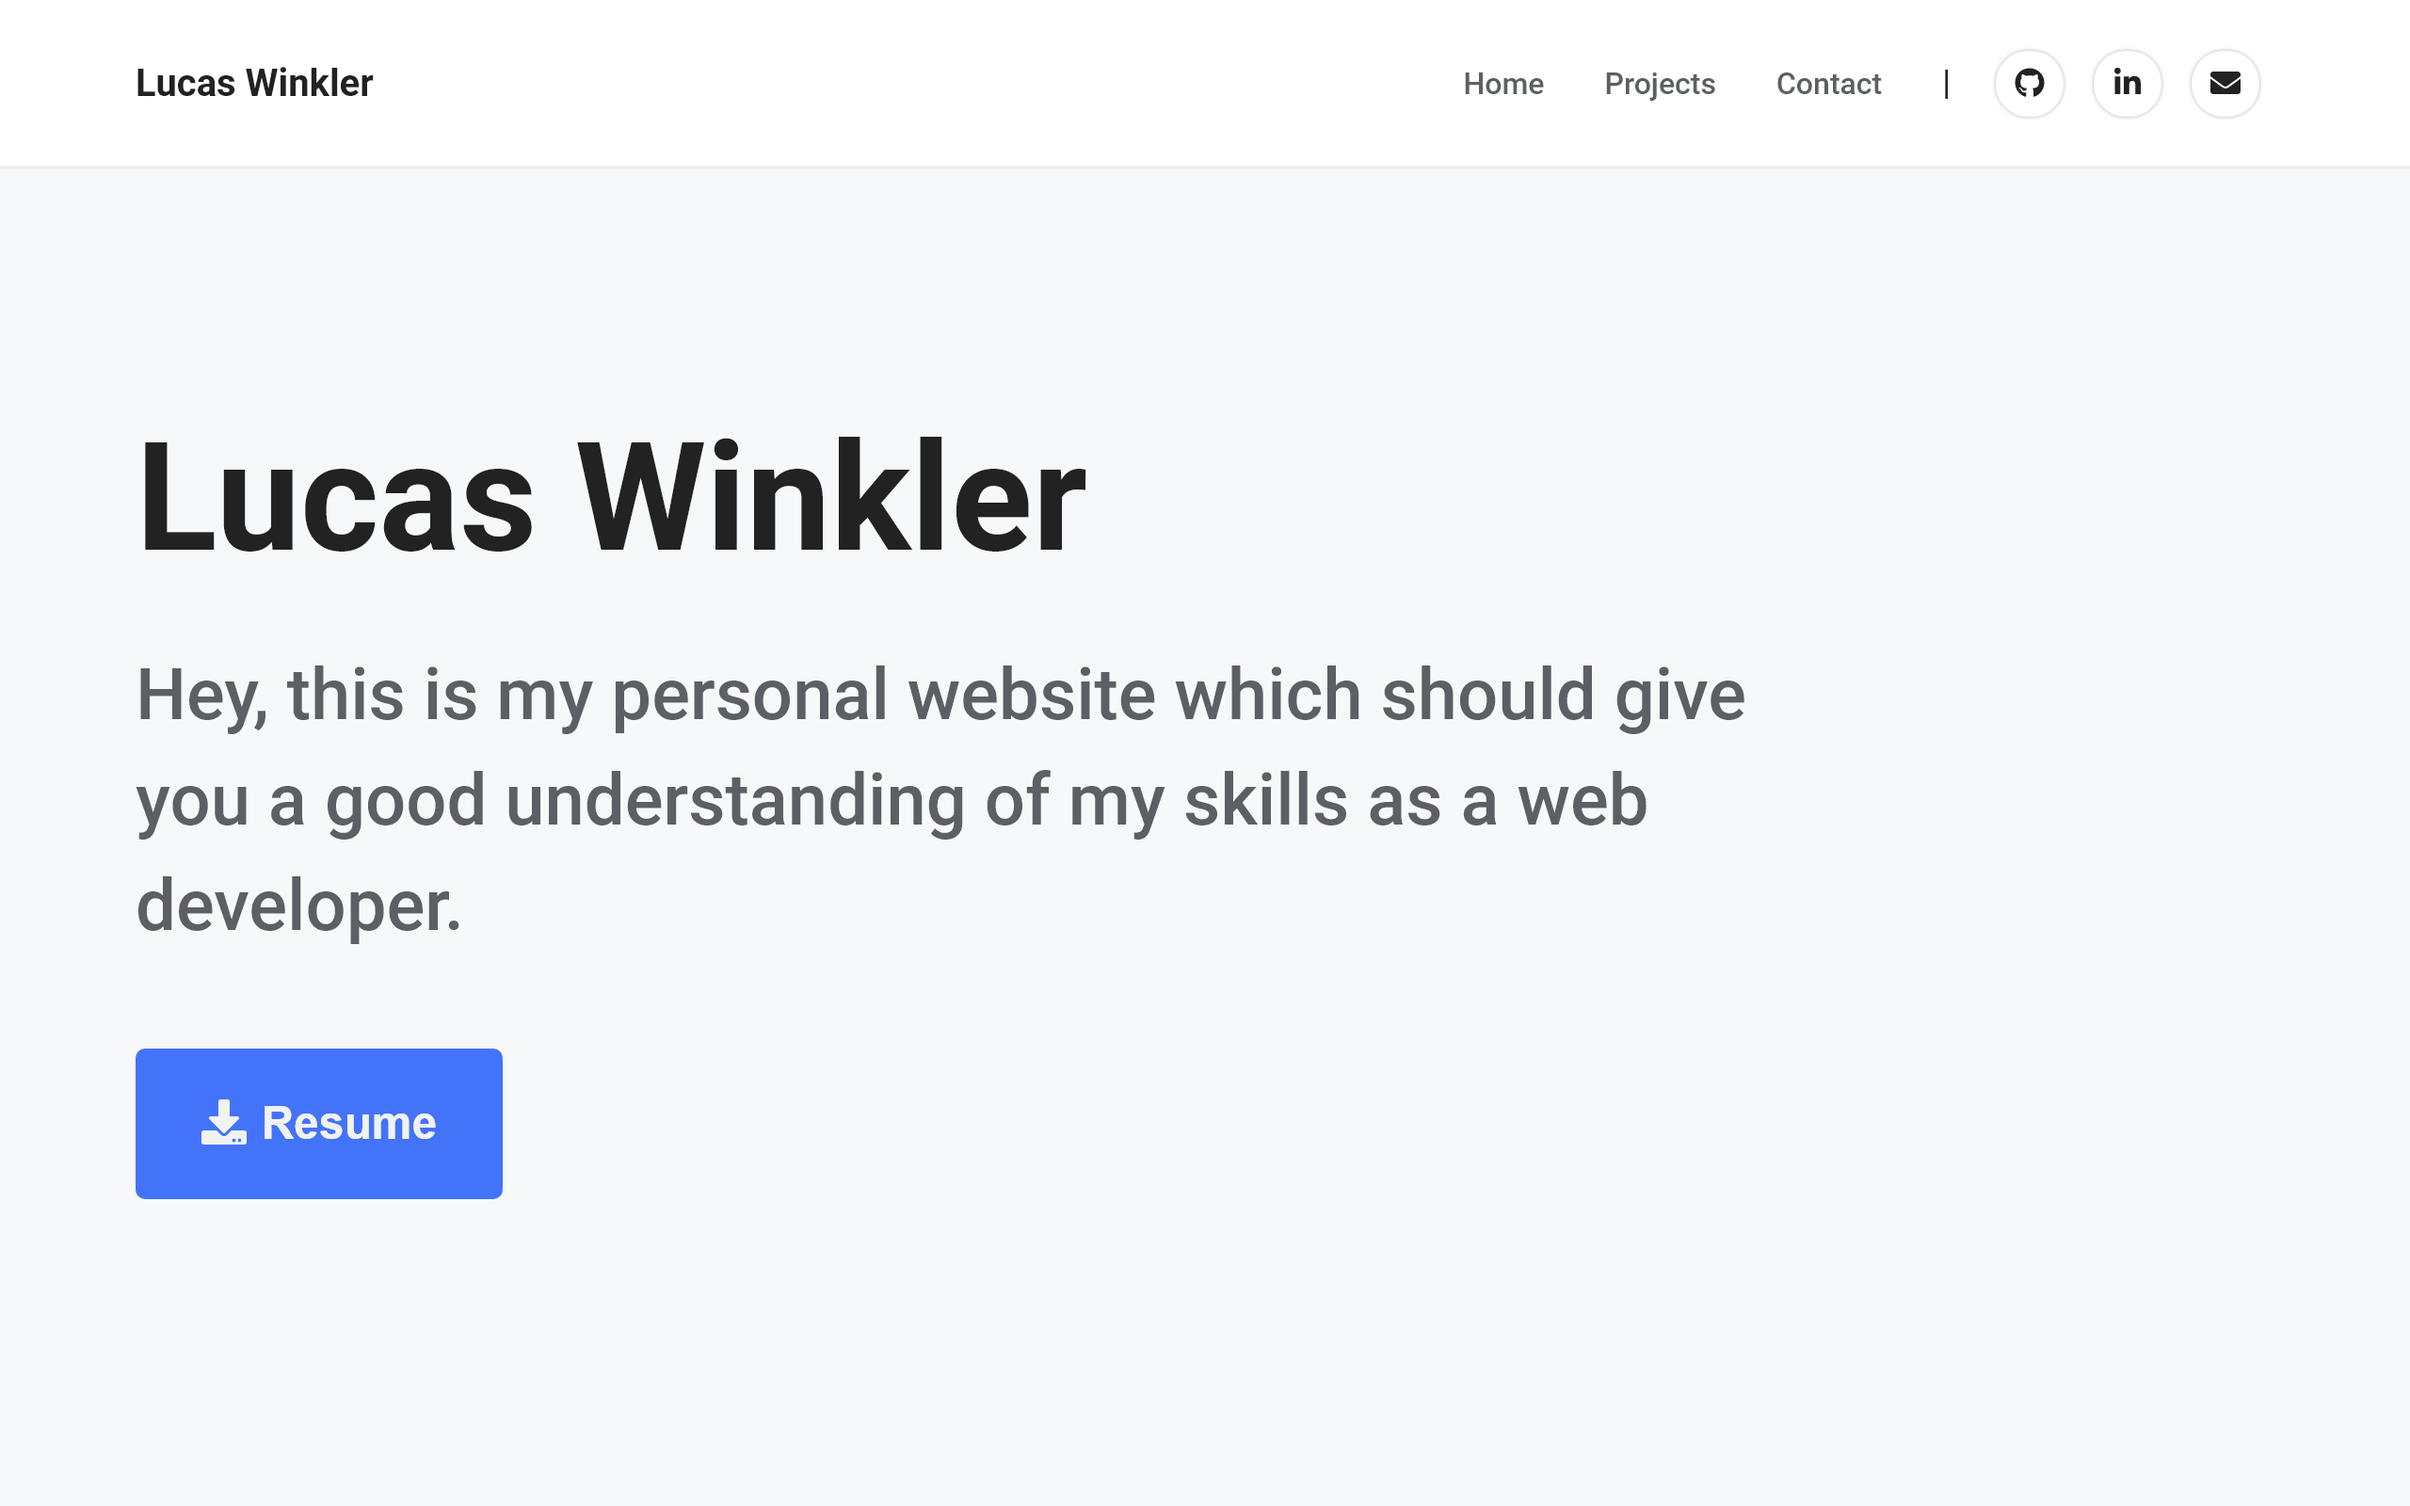
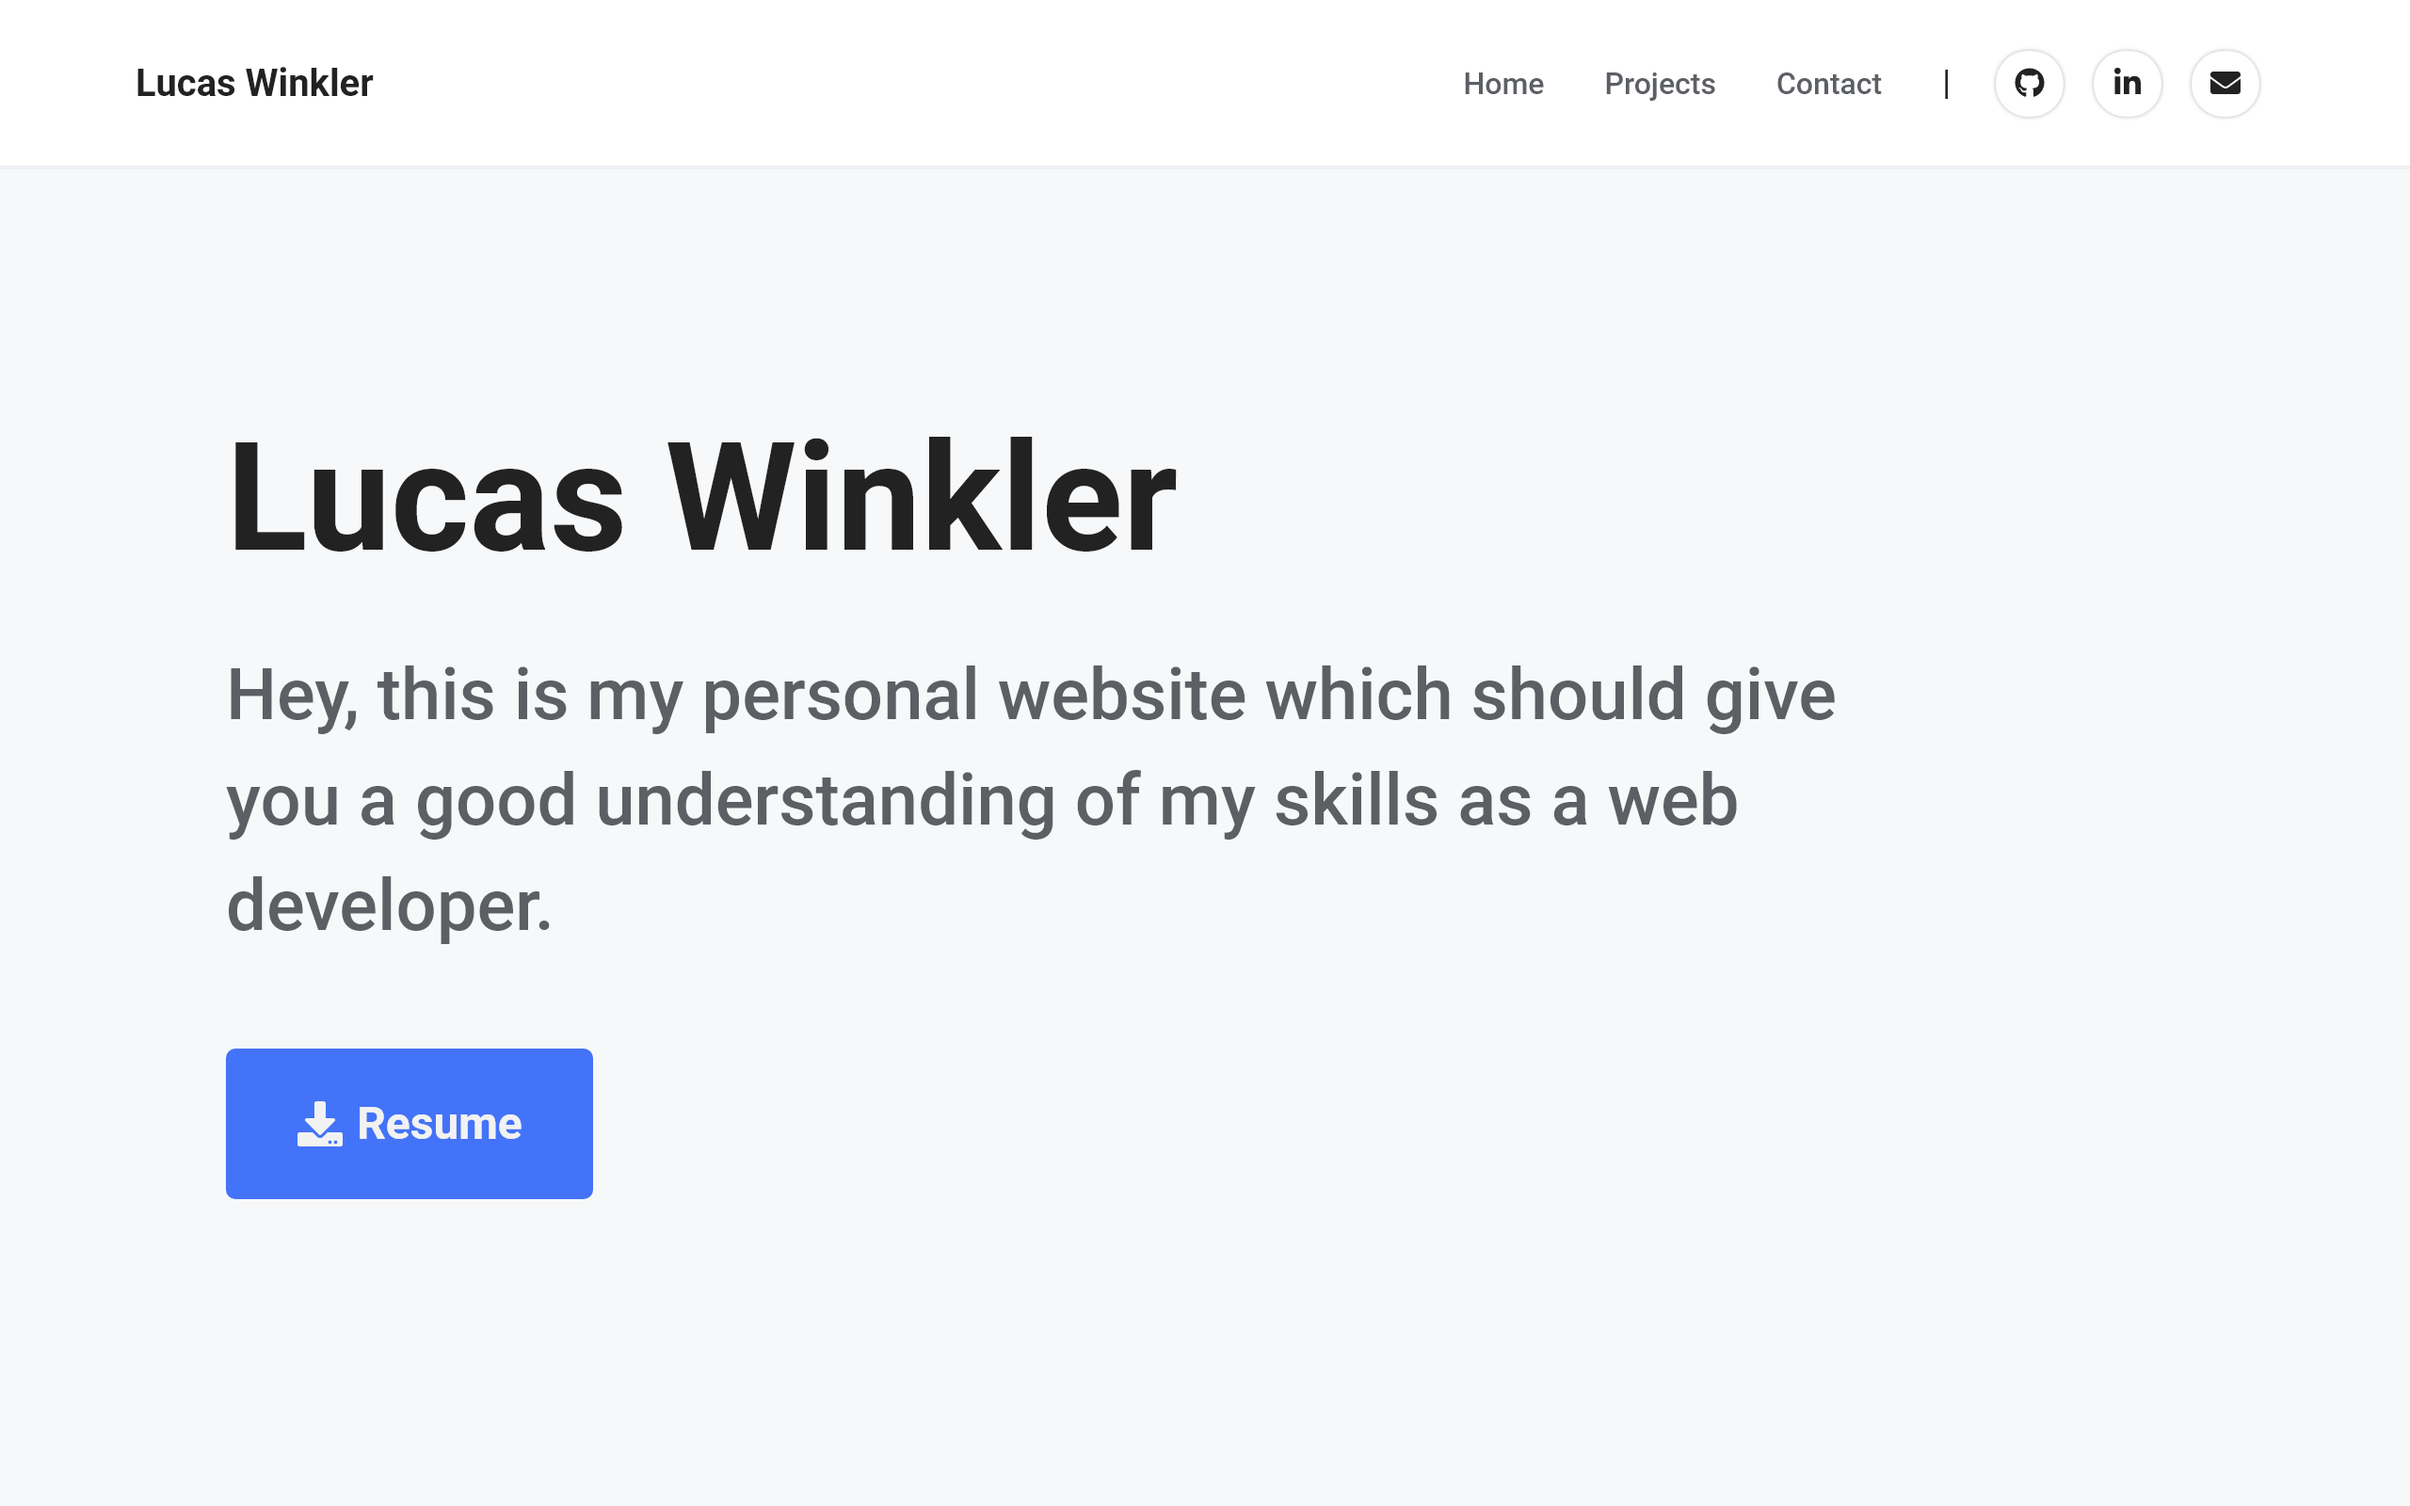
Added margin to the hero, added the dummy resume to the hero data

Changed region(s): [[0.0312, 0.4375, 0.7812, 0.625], [0.0625, 0.2812, 0.5, 0.375], [0.0312, 0.6875, 0.25, 0.8125]]

diff --git a/src/components/Hero.js b/src/components/Hero.js
@@ -9,7 +9,11 @@ function Hero() {
         <div className='hero-content'>
           <h2 className='hero-title'>{heroData.title}</h2>
           <p className='hero-subtitle'>{heroData.subtitle}</p>
-          <a className={heroData.btnResume.style} href='./resume.pdf' download>
+          <a
+            className={heroData.btnResume.style}
+            href={heroData.btnResume.href}
+            download
+          >
             <FontAwesomeIcon
               icon={heroData.btnResume.icon}
               className='btn-icon'

diff --git a/src/data/hero.js b/src/data/hero.js
@@ -7,7 +7,8 @@ const data = {
   btnResume: {
     text: 'Resume',
     icon: faDownload,
-    style: 'btn btn-cta'
+    style: 'btn btn-cta',
+    href: './dummy-resume.pdf' // TODO: Create resume, convert to PDF and name it lucas_winkler-resume
   }
 };
 

diff --git a/src/scss/components/_hero.scss b/src/scss/components/_hero.scss
@@ -8,6 +8,7 @@
     justify-content: center;
     align-items: flex-start;
     height: calc(100vh - 88px);
+    margin: 0 3rem;
 
     .hero-title {
       font-weight: 700;
